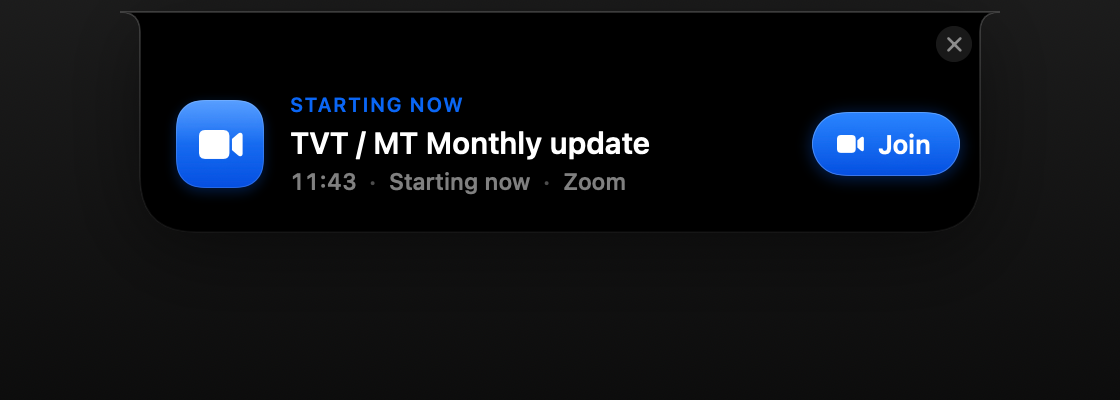
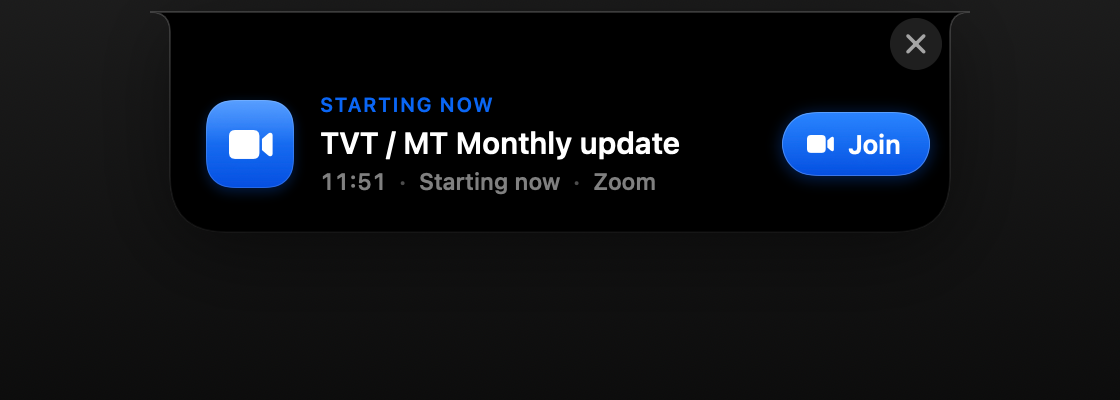
Fix marquee stretching bar; staged box (drop then expand); bigger dismiss; compact width

diff --git a/Sources/Adhder/Notch/NotchView.swift b/Sources/Adhder/Notch/NotchView.swift
@@ -13,7 +13,7 @@ struct NotchView: View {
         case .peek:
             return CGSize(width: max(geometry.notchWidth + 200, 400), height: geometry.notchHeight + 46)
         case .alert:
-            return CGSize(width: 440, height: geometry.notchHeight + 78)
+            return CGSize(width: 410, height: geometry.notchHeight + 78)
         }
     }
 
@@ -41,6 +41,12 @@ struct NotchView: View {
 
     @State private var contentVisible = false
     @State private var contentRevealWork: DispatchWorkItem?
+    // Box dimensions animate independently so the island can drop down first,
+    // then expand its sides.
+    @State private var boxWidth: CGFloat = 0
+    @State private var boxHeight: CGFloat = 0
+    @State private var boxFillOpacity: Double = 0
+    @State private var didInitBox = false
 
     var body: some View {
         VStack(spacing: 0) {
@@ -49,13 +55,13 @@ struct NotchView: View {
                 // window text beside the physical notch. The dark surface only
                 // appears when expanded into peek/alert.
                 NotchShape(bottomRadius: bottomRadius, topRadius: 10)
-                    .fill(surfaceColor)
+                    .fill(Color.black.opacity(boxFillOpacity))
                     .overlay(
                         NotchShape(bottomRadius: bottomRadius, topRadius: 10)
                             .stroke(strokeGradient, lineWidth: 0.8)
-                            .opacity(model.presentation == .collapsed ? 0 : 1)
+                            .opacity(boxFillOpacity)
                     )
-                    .shadow(color: .black.opacity(shadowOpacity),
+                    .shadow(color: .black.opacity(0.45 * boxFillOpacity),
                             radius: model.presentation == .alert ? 22 : 10, y: 8)
 
                 // Content is revealed only after the box has bloomed open.
@@ -65,33 +71,65 @@ struct NotchView: View {
                     .offset(y: contentVisible ? 0 : -8)
                     .blur(radius: contentVisible ? 0 : 4)
             }
-            .frame(width: size.width, height: size.height)
+            .frame(width: boxWidth, height: boxHeight)
             // Dismiss sits up in the notch-bar strip, in the empty space beside the notch.
             .overlay(alignment: .topTrailing) {
                 if model.presentation == .alert {
                     Button { model.dismissAlert() } label: {
                         Image(systemName: "xmark")
-                            .font(.system(size: 9, weight: .bold))
-                            .foregroundStyle(.white.opacity(0.5))
-                            .frame(width: 18, height: 18)
-                            .background(Circle().fill(Color.white.opacity(0.1)))
+                            .font(.system(size: 12, weight: .bold))
+                            .foregroundStyle(.white.opacity(0.6))
+                            .frame(width: 26, height: 26)
+                            .background(Circle().fill(Color.white.opacity(0.12)))
                             .contentShape(Circle())
                     }
-                    .buttonStyle(.plain)
+                    .buttonStyle(PressableButtonStyle())
                     .padding(.trailing, 14)
                     .frame(height: geometry.notchHeight, alignment: .center)
                     .opacity(contentVisible ? 1 : 0)
                 }
             }
-            .animation(.spring(response: 0.42, dampingFraction: 0.68), value: model.presentation)
 
             Spacer(minLength: 0)
         }
         .frame(maxWidth: .infinity, maxHeight: .infinity, alignment: .top)
         .onHover { model.hoverChanged($0) }
         .contentShape(Rectangle())
+        .onAppear {
+            if !didInitBox {
+                boxWidth = size.width
+                boxHeight = size.height
+                boxFillOpacity = model.presentation == .collapsed ? 0 : 1
+                didInitBox = true
+            }
+        }
         .onChange(of: model.presentation) { _, newValue in
+            stageBox(for: newValue)
             stageContentReveal(for: newValue)
+        }
+    }
+
+    /// Stage the box growth: when opening, the notch first drops DOWN (height),
+    /// then the SIDES expand (width). Collapsing reverses the order.
+    private func stageBox(for presentation: NotchViewModel.Presentation) {
+        let target = size
+        let expanding = presentation != .collapsed
+        if expanding {
+            // Surface appears immediately, drops DOWN (height), then sides expand.
+            boxFillOpacity = 1
+            withAnimation(.spring(response: 0.34, dampingFraction: 0.74)) { boxHeight = target.height }
+            DispatchQueue.main.asyncAfter(deadline: .now() + 0.14) {
+                withAnimation(.spring(response: 0.42, dampingFraction: 0.7)) { boxWidth = target.width }
+            }
+        } else {
+            // Retract the sides first, then lift the height and fade out into the notch.
+            withAnimation(.spring(response: 0.3, dampingFraction: 0.82)) { boxWidth = target.width }
+            DispatchQueue.main.asyncAfter(deadline: .now() + 0.12) {
+                withAnimation(.spring(response: 0.34, dampingFraction: 0.84)) {
+                    boxHeight = target.height
+                    boxFillOpacity = 0
+                }
+            }
         }
     }
 
@@ -108,7 +146,8 @@ struct NotchView: View {
             withAnimation(.spring(response: 0.4, dampingFraction: 0.8)) { contentVisible = true }
         }
         contentRevealWork = work
-        DispatchQueue.main.asyncAfter(deadline: .now() + 0.22, execute: work)
+        // Reveal only after the box has dropped and its sides have expanded.
+        DispatchQueue.main.asyncAfter(deadline: .now() + 0.34, execute: work)
     }
 
     @ViewBuilder
@@ -122,18 +161,6 @@ struct NotchView: View {
             if let meeting = model.activeAlert {
                 AlertView(model: model, meeting: meeting)
             }
-        }
-    }
-
-    private var surfaceColor: Color {
-        model.presentation == .collapsed ? Color.clear : Color.black
-    }
-
-    private var shadowOpacity: Double {
-        switch model.presentation {
-        case .collapsed: return 0
-        case .peek: return 0.25
-        case .alert: return 0.45
         }
     }
 

diff --git a/Sources/Adhder/Notch/MarqueeText.swift b/Sources/Adhder/Notch/MarqueeText.swift
@@ -1,14 +1,15 @@
 import SwiftUI
 
 /// Single-line text that smoothly loops horizontally (continuous ticker) when it
-/// is too wide for its container, and stays static when it fits.
+/// is too wide for its container, and stays static when it fits. Crucially it
+/// never reports a large intrinsic width — it fills the width it is given and
+/// clips, so a long title can never stretch its parent layout.
 struct MarqueeText: View {
     let text: String
     var font: Font
     var color: Color = .white
     /// Points scrolled per second.
     var speed: Double = 30
-    /// Gap between the two looping copies.
     private let gap: CGFloat = 46
 
     @State private var textWidth: CGFloat = 0
@@ -18,57 +19,53 @@ struct MarqueeText: View {
 
     private var overflowing: Bool { textWidth > containerWidth + 1 }
 
-    private var label: some View {
-        Text(text)
-            .font(font)
-            .foregroundStyle(color)
-            .lineLimit(1)
-            .fixedSize()
+    private func label() -> some View {
+        Text(text).font(font).foregroundStyle(color).lineLimit(1).fixedSize()
     }
 
     var body: some View {
-        ZStack(alignment: .leading) {
-            // Sizing ghost: fixes the line height and reports the container width.
-            Text(text)
-                .font(font)
-                .lineLimit(1)
-                .opacity(0)
-                .frame(maxWidth: .infinity, alignment: .leading)
-                .background(
-                    GeometryReader { geo in
-                        Color.clear.preference(key: ContainerWidthKey.self, value: geo.size.width)
+        // Ghost defines the line height and a FLEXIBLE width (fills available space).
+        Text(text)
+            .font(font)
+            .lineLimit(1)
+            .opacity(0)
+            .frame(maxWidth: .infinity, alignment: .leading)
+            // Visible content lives in an overlay so it never affects layout size.
+            .overlay(alignment: .leading) {
+                Group {
+                    if overflowing {
+                        HStack(spacing: gap) { label(); label() }
+                            .offset(x: offset)
+                    } else {
+                        label()
                     }
-                )
-
-            if overflowing {
-                HStack(spacing: gap) {
-                    label
-                    label
                 }
-                .offset(x: offset)
-            } else {
-                label
             }
-        }
-        .clipped()
-        .background(
-            // Measure the intrinsic text width off-screen.
-            label.fixedSize().hidden()
-                .background(
-                    GeometryReader { geo in
-                        Color.clear.preference(key: TextWidthKey.self, value: geo.size.width)
-                    }
-                )
-                .allowsHitTesting(false)
-        )
-        .onPreferenceChange(ContainerWidthKey.self) { w in
-            if abs(w - containerWidth) > 0.5 { containerWidth = w; restartIfNeeded() }
-        }
-        .onPreferenceChange(TextWidthKey.self) { w in
-            if abs(w - textWidth) > 0.5 { textWidth = w; restartIfNeeded() }
-        }
-        .onChange(of: text) { _, _ in looping = false; restartIfNeeded() }
-        .onDisappear { looping = false }
+            .clipped()
+            // Measure the container width.
+            .background(
+                GeometryReader { geo in
+                    Color.clear.preference(key: ContainerWidthKey.self, value: geo.size.width)
+                }
+            )
+            // Measure the intrinsic text width without affecting layout.
+            .background(
+                Text(text).font(font).fixedSize().hidden()
+                    .background(
+                        GeometryReader { geo in
+                            Color.clear.preference(key: TextWidthKey.self, value: geo.size.width)
+                        }
+                    ),
+                alignment: .leading
+            )
+            .onPreferenceChange(ContainerWidthKey.self) { w in
+                if abs(w - containerWidth) > 0.5 { containerWidth = w; restartIfNeeded() }
+            }
+            .onPreferenceChange(TextWidthKey.self) { w in
+                if abs(w - textWidth) > 0.5 { textWidth = w; restartIfNeeded() }
+            }
+            .onChange(of: text) { _, _ in looping = false; restartIfNeeded() }
+            .onDisappear { looping = false }
     }
 
     private func restartIfNeeded() {

diff --git a/Sources/Adhder/RenderMode.swift b/Sources/Adhder/RenderMode.swift
@@ -60,7 +60,7 @@ private struct NotchSnapshot: View {
         switch state {
         case .collapsed: return CGSize(width: geometry.notchWidth, height: geometry.notchHeight)
         case .peek: return CGSize(width: max(geometry.notchWidth + 200, 400), height: geometry.notchHeight + 46)
-        case .alert: return CGSize(width: 440, height: geometry.notchHeight + 78)
+        case .alert: return CGSize(width: 410, height: geometry.notchHeight + 78)
         }
     }
 
@@ -95,10 +95,10 @@ private struct NotchSnapshot: View {
             .overlay(alignment: .topTrailing) {
                 if state == .alert {
                     Image(systemName: "xmark")
-                        .font(.system(size: 9, weight: .bold))
-                        .foregroundStyle(.white.opacity(0.5))
-                        .frame(width: 18, height: 18)
-                        .background(Circle().fill(Color.white.opacity(0.1)))
+                        .font(.system(size: 12, weight: .bold))
+                        .foregroundStyle(.white.opacity(0.6))
+                        .frame(width: 26, height: 26)
+                        .background(Circle().fill(Color.white.opacity(0.12)))
                         .padding(.trailing, 14)
                         .frame(height: geometry.notchHeight, alignment: .center)
                 }

diff --git a/Sources/Adhder/Notch/AlertView.swift b/Sources/Adhder/Notch/AlertView.swift
@@ -47,8 +47,7 @@ struct AlertView: View {
                 .font(.system(size: 11.5, weight: .medium))
                 .foregroundStyle(.white.opacity(0.5))
             }
-
-            Spacer(minLength: 10)
+            .frame(maxWidth: .infinity, alignment: .leading)
 
             if meeting.joinURL != nil {
                 Button {
